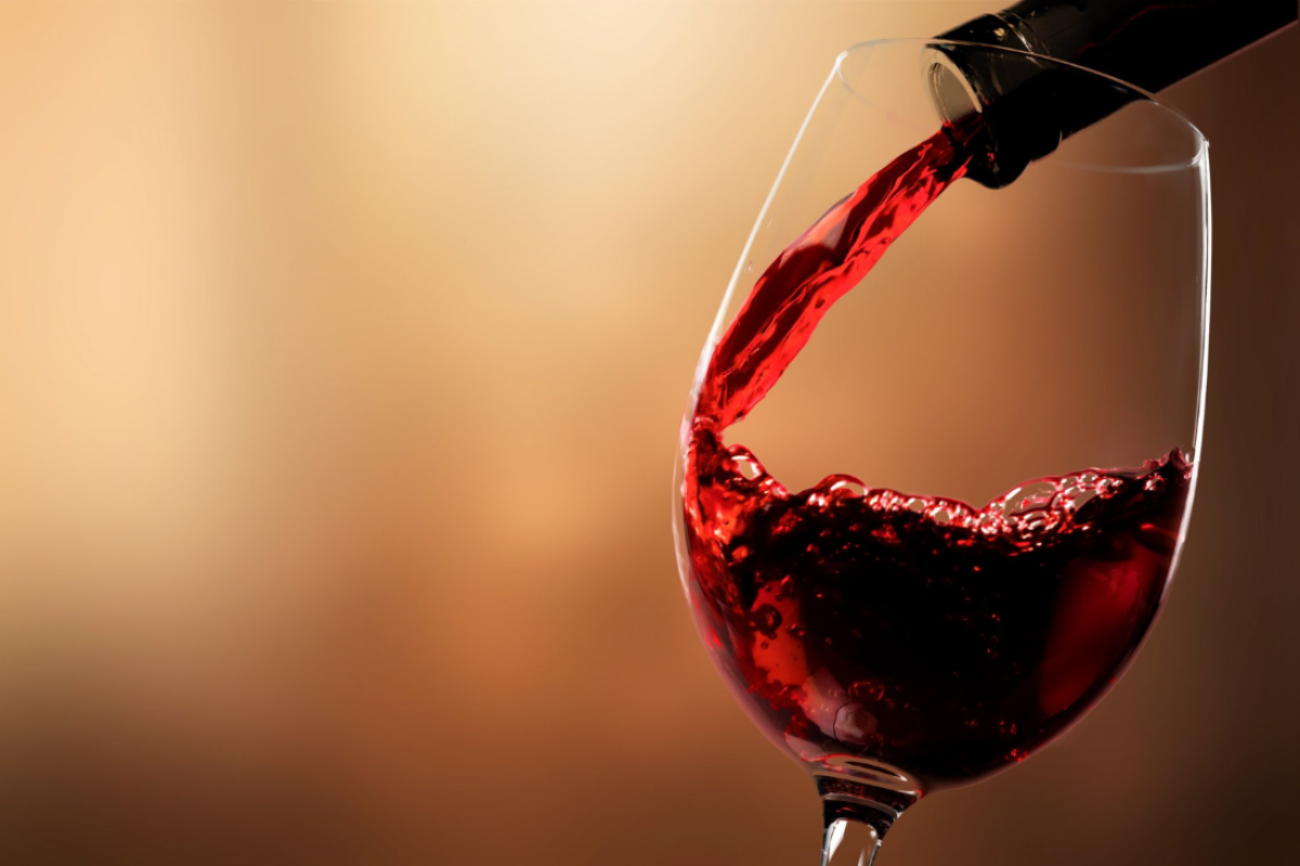
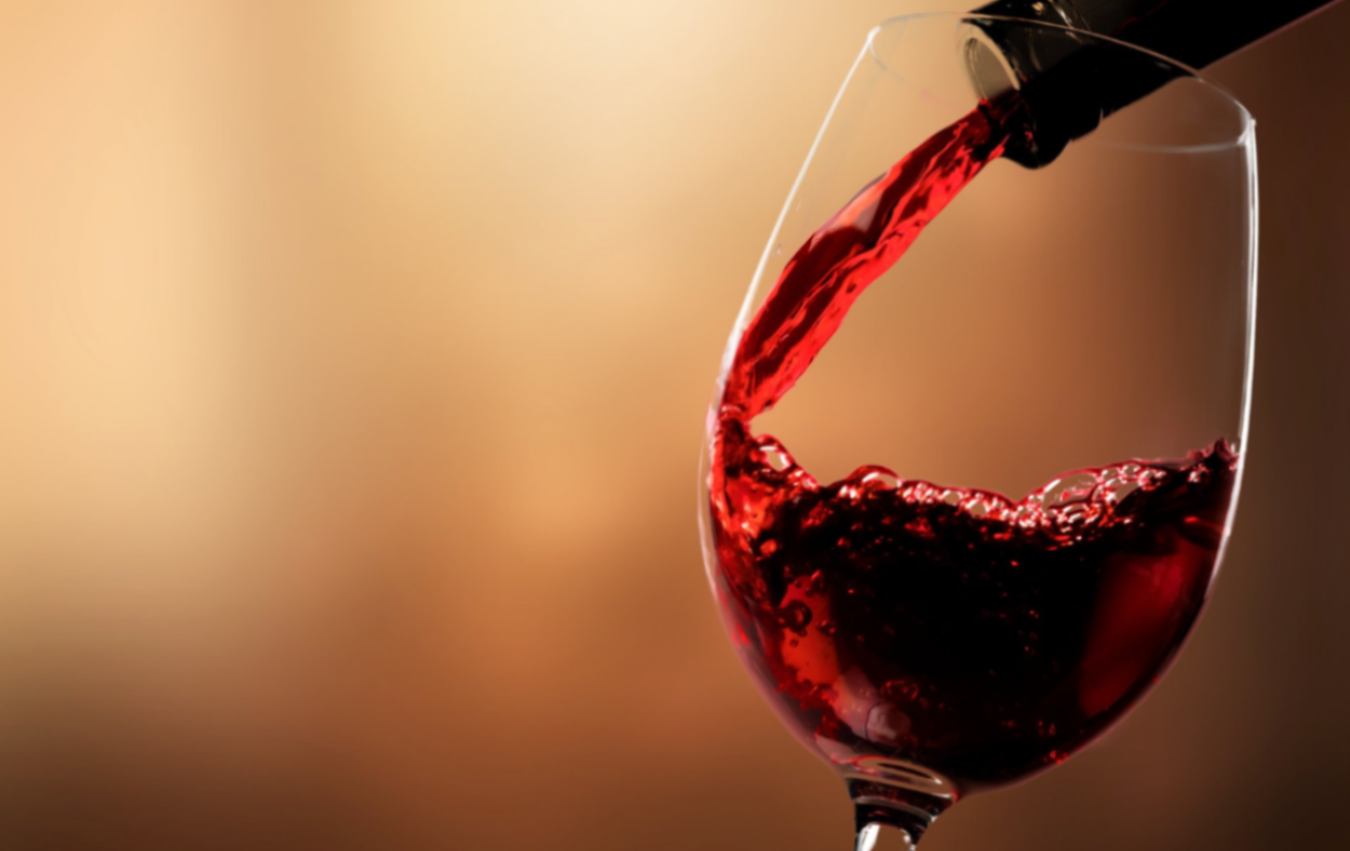
arreglos esteticos

diff --git a/style.css b/style.css
@@ -21,7 +21,7 @@ header {
 
 .first_section {
     background-image: url(./img/fondo.png);
-    height: 550px;
+    height: 520px;
     padding: 13rem 0 0 0;
     width: 100%;
     background-repeat: no-repeat;
